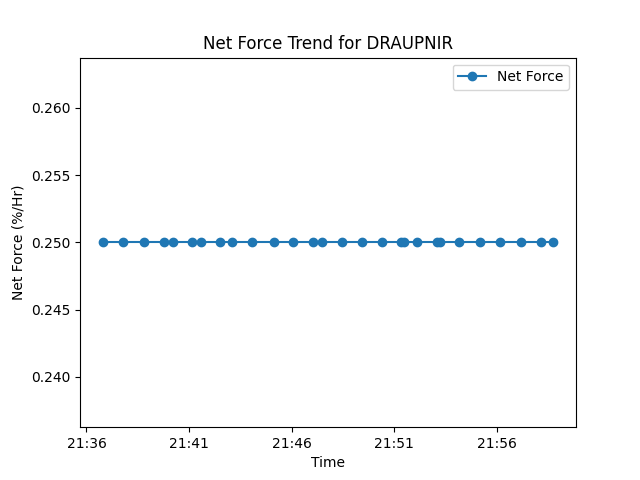
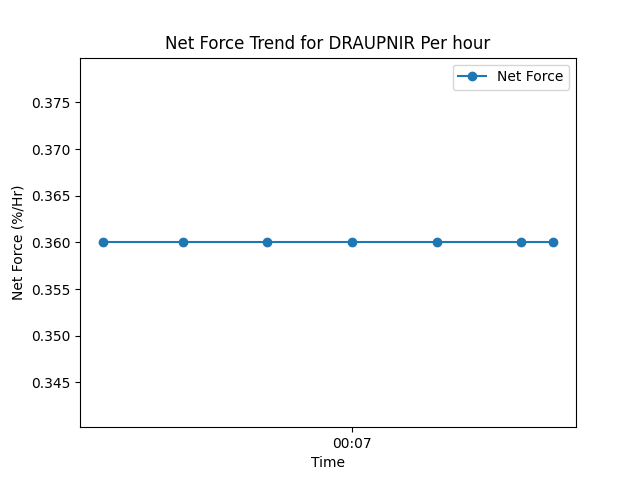
decopeled the graph function from the message stuff

diff --git a/bot.py b/bot.py
@@ -19,7 +19,13 @@ load_dotenv()
 intents = discord.Intents.default()
 bot = commands.Bot(command_prefix='!', intents=intents)
 
-
+def delete_old_data(conn):
+    cursor = conn.cursor()
+    cursor.execute('''
+        DELETE FROM historical_data
+        WHERE timestamp < datetime('now', '-1 hour')
+    ''')
+    conn.commit()
 # Setup SQLite database
 def setup_db():
     conn = sqlite3.connect('servers.db')
@@ -70,11 +76,23 @@ async def on_ready():
     print(f'We have logged in as {bot.user}')
 
 
+latest_data = None
+
+@tasks.loop(seconds=30)
+async def fetch_hell_divers_info():
+    global latest_data
+    latest_data = requests.get('http://82.165.212.88:3000/activePlanets').json()
+    await bot.wait_until_ready()
+    delete_old_data(conn)
+    
+    # Fetch the latest Hell Divers data
+    
+
 @tasks.loop(seconds=60)
 async def update_hell_divers_info():
     await bot.wait_until_ready()
     # Fetch the latest Hell Divers data
-    data = requests.get('http://82.165.212.88:3000/activePlanets').json()
+    data = latest_data
 
     # Get the channels to update
     channels_to_update = get_channels_to_update(conn)  # Pass the connection object
@@ -160,6 +178,7 @@ async def send_data(ctx):
     await ctx.respond(embed=embed)
 
 update_hell_divers_info.start()
+fetch_hell_divers_info.start()
 
 
 import matplotlib.dates as mdates
@@ -193,7 +212,7 @@ async def send_graph(ctx, planet: str):
     # Set labels and title
     ax.set_xlabel('Time')
     ax.set_ylabel('Net Force (%/Hr)')
-    ax.set_title(f'Net Force Trend for {planet}')
+    ax.set_title(f'Net Force Trend for {planet} Per hour')
     ax.legend()
 
     # Format x-axis to display every 5 minutes
